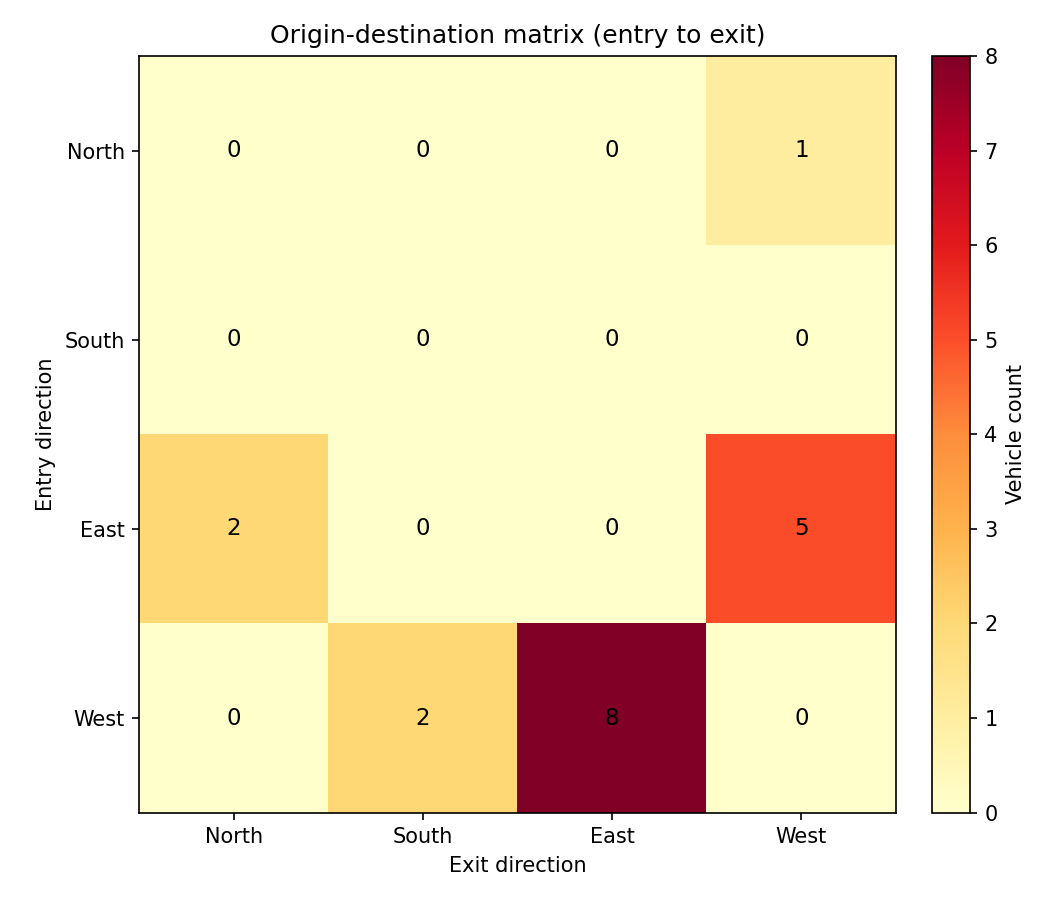
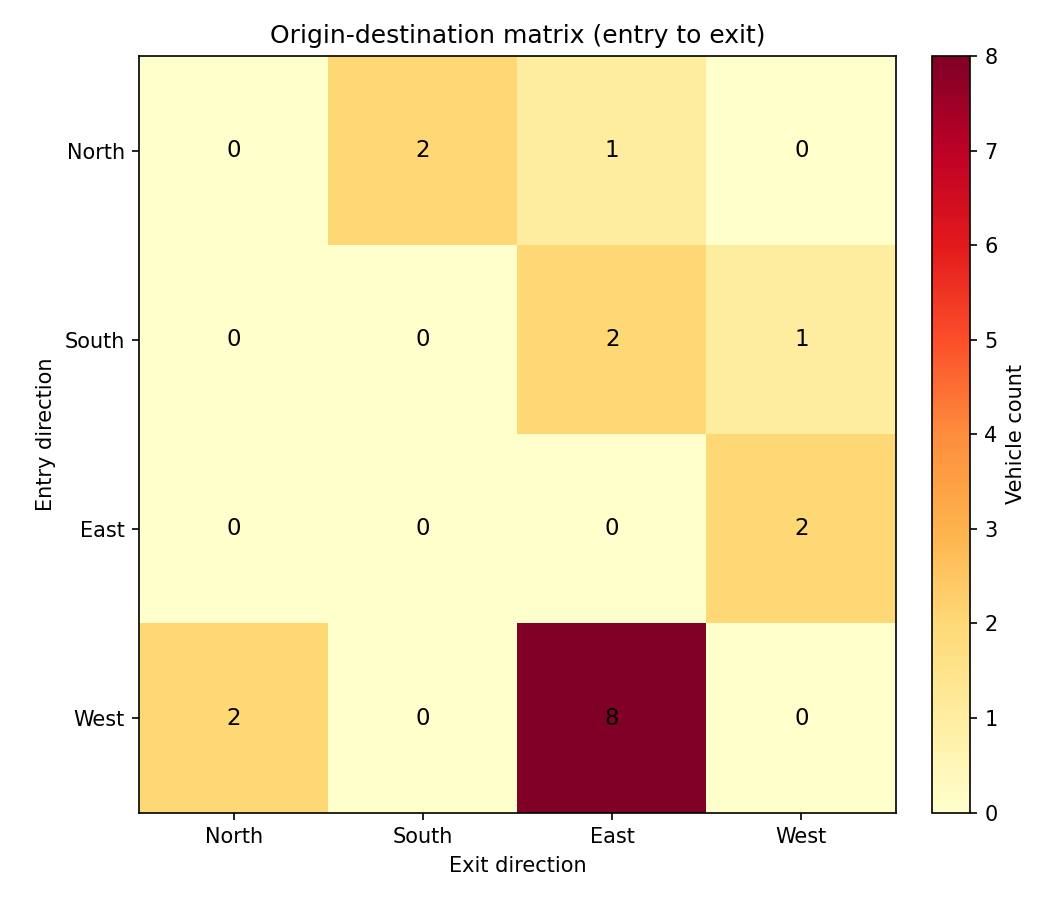
updated structure

diff --git a/docs/DEFENSE_DEMO.md b/docs/DEFENSE_DEMO.md
@@ -1,0 +1,69 @@
+# Thesis defense demo script (~5 minutes)
+
+Use this order during the presentation. Rehearse once on the **same laptop** you will use in the room.
+
+## Before the session
+
+1. Install dependencies: `pip install -r requirements.txt`
+2. Either download sample data (`./setup.sh` or see `data/README.md`) **or** skip YOLO and use the bundled sample CSV only.
+3. Optional backup: pre-record an annotated video and keep `output/*.png` open in a folder.
+
+## Path A — Full pipeline (recommended if GPU/time allows)
+
+From the repository root:
+
+```bash
+python main.py ^
+  --source_weights_path data/traffic_analysis.pt ^
+  --source_video_path data/traffic_analysis.mov ^
+  --target_video_path data/traffic_analysis_result.mov ^
+  --results_csv_path results.csv ^
+  --confidence_threshold 0.3 ^
+  --congestion_vehicle_threshold 5
+```
+
+On bash, replace `^` with `\`.
+
+**Say while it runs:** YOLOv8 detects vehicles, ByteTrack maintains IDs, polygon zones record entry/exit sides, HUD shows totals and congestion.
+
+Then:
+
+```bash
+python analyze.py --csv results.csv --out-dir output
+```
+
+**Show:** `output/speed_distribution.png`, `traffic_volume_timeline.png`, `entry_exit_flow_heatmap.png`, and `output/summary.txt`.
+
+## Path B — Analysis only (fast fallback, ~30 seconds)
+
+If YOLO is slow or dependencies fail on demo day:
+
+```bash
+python analyze.py --csv sample/results.csv --out-dir output
+```
+
+**Say:** The live detector produces the same CSV schema; this sample file is from a completed run on the intersection video.
+
+## What to point at on screen
+
+| Artifact | Talking point |
+|----------|----------------|
+| Annotated video | Tracks, speed labels, zone overlays, congestion HIGH/LOW |
+| CSV columns | `timestamp`, `tracker_id`, `entry_side`, `exit_side`, `estimated_speed` |
+| Heatmap | Origin–destination matrix (which approach feeds which departure) |
+| Speed histogram | Distribution of estimated speeds across completed crossings |
+| Volume timeline | Adaptive time bins from crossing timestamps |
+
+## Manual validation checklist
+
+- [ ] `main.py --help` and `analyze.py --help` run without error
+- [ ] Sample analysis: `python analyze.py --csv sample/results.csv --out-dir output`
+- [ ] Four PNGs + `summary.txt` appear under `output/`
+- [ ] Full run (optional): CSV row count matches completed crossings shown in HUD **Total OUT**
+- [ ] Limitations ready: see `docs/LIMITATIONS.md`
+
+## If something breaks live
+
+1. Switch to **Path B** (sample CSV).
+2. Play a **pre-recorded** annotated video clip.
+3. Walk through architecture from `README.md` (mermaid diagram) and thesis slides.

diff --git a/README.md b/README.md
@@ -37,7 +37,13 @@ flowchart TB
 - **CSV:** Default is **`results.csv` in the current working directory** (again: the folder where your terminal was when you ran the command). Override with `--results_csv_path path/to/file.csv`.
 - **Charts / summary:** Produced only by `analyze.py`, default folder **`output/`** next to the CSV (override with `--out-dir`). Typical files: `speed_distribution.png`, `traffic_volume_timeline.png` (adaptive time bins), `entry_exit_flow_heatmap.png`, `summary.txt`, and optionally `speed_by_class.png` if the CSV includes a vehicle-class column.
 
-**Typical first run:** install dependencies, download sample data (see below), then from the repo root run `main.py` with weights and video paths, then optionally `python analyze.py`.
+**Typical first run:** install dependencies, download sample data (see `data/README.md`), then from the repo root run `main.py` with weights and video paths, then optionally `python analyze.py`.
+
+**Quick figures without YOLO** (useful for demos or reports):
+
+```bash
+python analyze.py --csv sample/results.csv --out-dir output
+```
 
 ## What it does
 
@@ -51,17 +57,34 @@ flowchart TB
 
 ## Repository layout
 
+```
+YOLOv8-traffic-analysis/
+├── main.py                      # CLI: YOLO + tracking pipeline
+├── analyze.py                   # CLI: CSV → figures + summary
+├── requirements.txt
+├── setup.sh                     # Download sample video + weights into data/
+├── video_processing/            # Core detection, tracking, zones, CSV
+├── sample/
+│   └── results.csv              # Example pipeline output (18 crossings)
+├── output/                      # Generated figures (committed as demo samples)
+├── data/                        # Local video + weights (gitignored; see data/README.md)
+└── docs/
+    ├── DEFENSE_DEMO.md          # Step-by-step thesis defense script
+    ├── LIMITATIONS.md           # Scope boundaries to discuss with examiners
+    └── images/                  # Screenshots of the annotated UI
+```
+
 | Path | Role |
 |------|------|
 | `main.py` | CLI entrypoint |
 | `video_processing/video_processor.py` | YOLO inference, tracking, annotation, video sink or preview |
 | `video_processing/detections_manager.py` | Zone logic, speeds, trip completion, CSV writer |
 | `video_processing/utils.py` | Zone polygons, colors, zone labels |
-| `requirements.txt` | Python dependencies |
-| `analyze.py` | Post-process `results.csv`: plots + `summary.txt` in `output/` |
-| `setup.sh` | Bash script: creates `data/` and downloads sample video + weights via `gdown` |
+| `analyze.py` | Post-process CSV: plots + `summary.txt` in `output/` |
+| `sample/results.csv` | Bundled CSV so `analyze.py` works without running YOLO |
+| `docs/DEFENSE_DEMO.md` | Rehearsal checklist for thesis presentation |
 
-Intersection polygons in `utils.py` are hard-coded for the sample resolution; if you use another video, adjust those coordinates.
+Intersection polygons in `utils.py` are hard-coded for the sample resolution; if you use another video, adjust those coordinates. See `docs/LIMITATIONS.md` for other scope notes.
 
 ## Requirements
 
@@ -72,9 +95,11 @@ Intersection polygons in `utils.py` are hard-coded for the sample resolution; if
 pip install -r requirements.txt
 ```
 
-Dependencies include `ultralytics`, `supervision>=0.24.0`, `tqdm`, `gdown`, `inference`, `pandas`, and `matplotlib` (as listed in `requirements.txt`).
+Dependencies include `ultralytics`, `supervision`, `opencv-python`, `tqdm`, `gdown`, `pandas`, and `matplotlib` (see `requirements.txt`).
 
 ## Sample data (weights + video)
+
+See **`data/README.md`** for download instructions.
 
 **Linux / macOS / Git Bash on Windows:**
 
@@ -92,6 +117,12 @@ gdown -O "data/traffic_analysis.pt" "https://drive.google.com/uc?id=1y-IfToCjRXa
 ```
 
 Place any other `.pt` / video paths you prefer; the CLI only needs valid file paths.
+
+## Thesis defense
+
+- **Demo script:** [`docs/DEFENSE_DEMO.md`](docs/DEFENSE_DEMO.md) — full pipeline or fast CSV-only path.
+- **Limitations to mention:** [`docs/LIMITATIONS.md`](docs/LIMITATIONS.md).
+- **UI screenshots:** [`docs/images/`](docs/images/).
 
 ## How to run
 

diff --git a/data/README.md b/data/README.md
@@ -1,0 +1,35 @@
+# Sample data
+
+This folder is **not** tracked in git (videos and weights are large). Download the demo assets here before running the pipeline.
+
+## Quick setup
+
+**Linux / macOS / Git Bash:**
+
+```bash
+chmod +x setup.sh
+./setup.sh
+```
+
+**Windows (PowerShell)** — from the repository root:
+
+```powershell
+New-Item -ItemType Directory -Force -Path data | Out-Null
+gdown -O "data/traffic_analysis.mov" "https://drive.google.com/uc?id=1qadBd7lgpediafCpL_yedGjQPk-FLK-W"
+gdown -O "data/traffic_analysis.pt" "https://drive.google.com/uc?id=1y-IfToCjRXa3ZdC1JpnKRopC7mcQW-5z"
+```
+
+## Expected files
+
+| File | Purpose |
+|------|---------|
+| `traffic_analysis.mov` | Sample four-way intersection video |
+| `traffic_analysis.pt` | YOLOv8 weights fine-tuned for this scene |
+
+After download, run `main.py` with paths under `data/` (see root `README.md`).
+
+If you only need thesis figures without running YOLO, use the bundled sample CSV instead:
+
+```bash
+python analyze.py --csv sample/results.csv --out-dir output
+```

diff --git a/docs/LIMITATIONS.md b/docs/LIMITATIONS.md
@@ -1,0 +1,23 @@
+# Known limitations
+
+These are intentional scope boundaries for the thesis prototype, not bugs to hide in the defense.
+
+## Scene-specific geometry
+
+Entry and exit zones are **hard-coded polygons** in `video_processing/utils.py`, tuned for the sample video resolution (~1920×1080). A new camera angle or resolution requires redrawing those coordinates.
+
+## Speed estimation
+
+Speed is derived from **pixel displacement** between frames, scaled by a constant (`scale = 0.05` in `video_processing/video_processor.py`). Values are shown as km/h for readability but are **not** radar- or GPS-calibrated. They support relative comparisons (fast vs. slow tracks) and aggregate statistics, not enforcement-grade measurement.
+
+## Congestion signal
+
+Congestion is declared when the count of **unique vehicles inside any IN zone** exceeds `--congestion_vehicle_threshold`. This is a simple occupancy heuristic, not a traffic-engineering model (no queue length, signal timing, or density per lane).
+
+## Model and classes
+
+The bundled weights (`traffic_analysis.pt`) target the demo intersection. Detection quality depends on lighting, occlusion, and vehicle types seen during training or fine-tuning.
+
+## Manual validation
+
+The project is validated by **running the pipeline on the sample video** and inspecting the annotated output, CSV rows, and `analyze.py` figures. There is no continuous integration or automated regression suite (see `docs/DEFENSE_DEMO.md` for the manual check list).